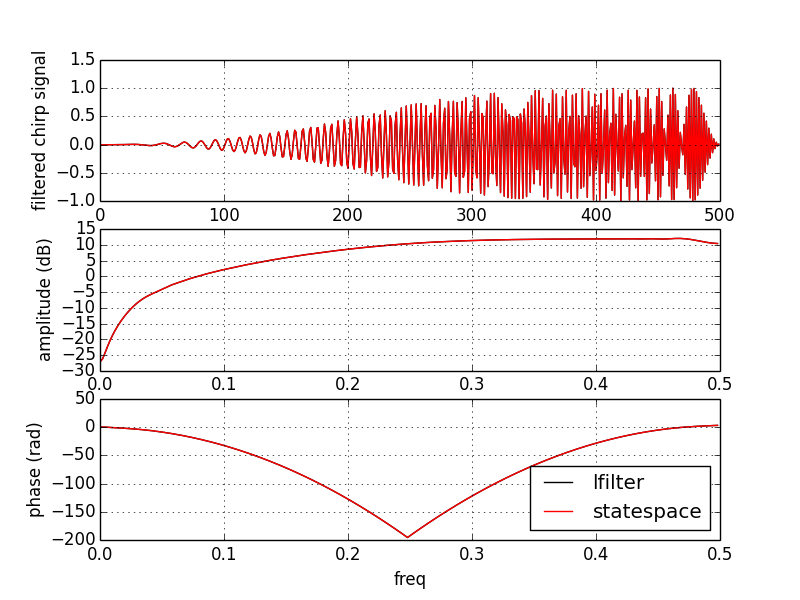
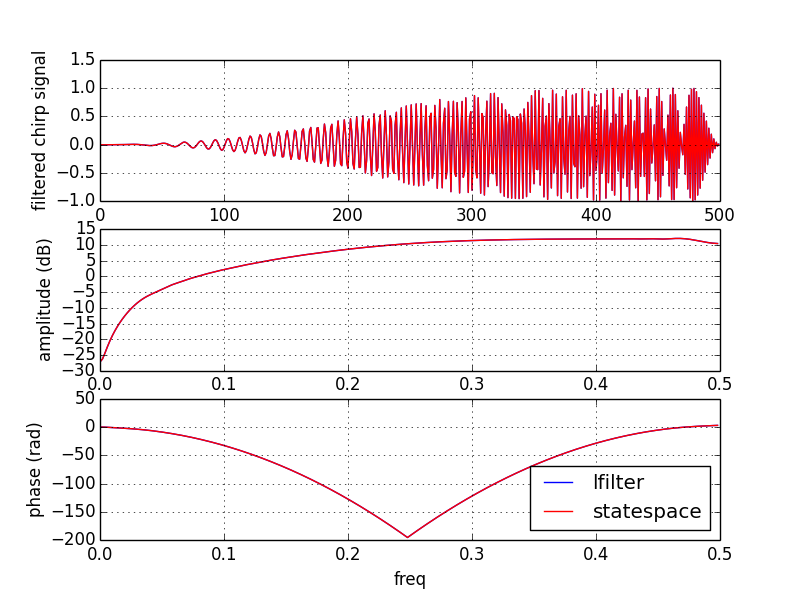
tweak color

diff --git a/iir_analyze.py b/iir_analyze.py
@@ -57,12 +57,12 @@ def analyze_filter(sample_freq, cutoff_freq, order, btype):
     plot_inputs('%s-' % btype, input_t, input_x, fft_freq, input_fft)
 
     plot_outputs('%s-' % btype, input_t, fft_freq, [
-        ('lfilter', 'black', lfilter_output, lfilter_fft),
+        ('lfilter', 'blue', lfilter_output, lfilter_fft),
         ('statespace', 'red', statespace_output, statespace_fft),
     ])
 
     plot_transfer_function('%s-' % btype, freqz_freq, freqz_amplitude, freqz_phase, fft_freq, input_fft, [
-        ('lfilter', 'black', lfilter_fft),
+        ('lfilter', 'blue', lfilter_fft),
         ('statespace', 'red', statespace_fft),
     ])
 
